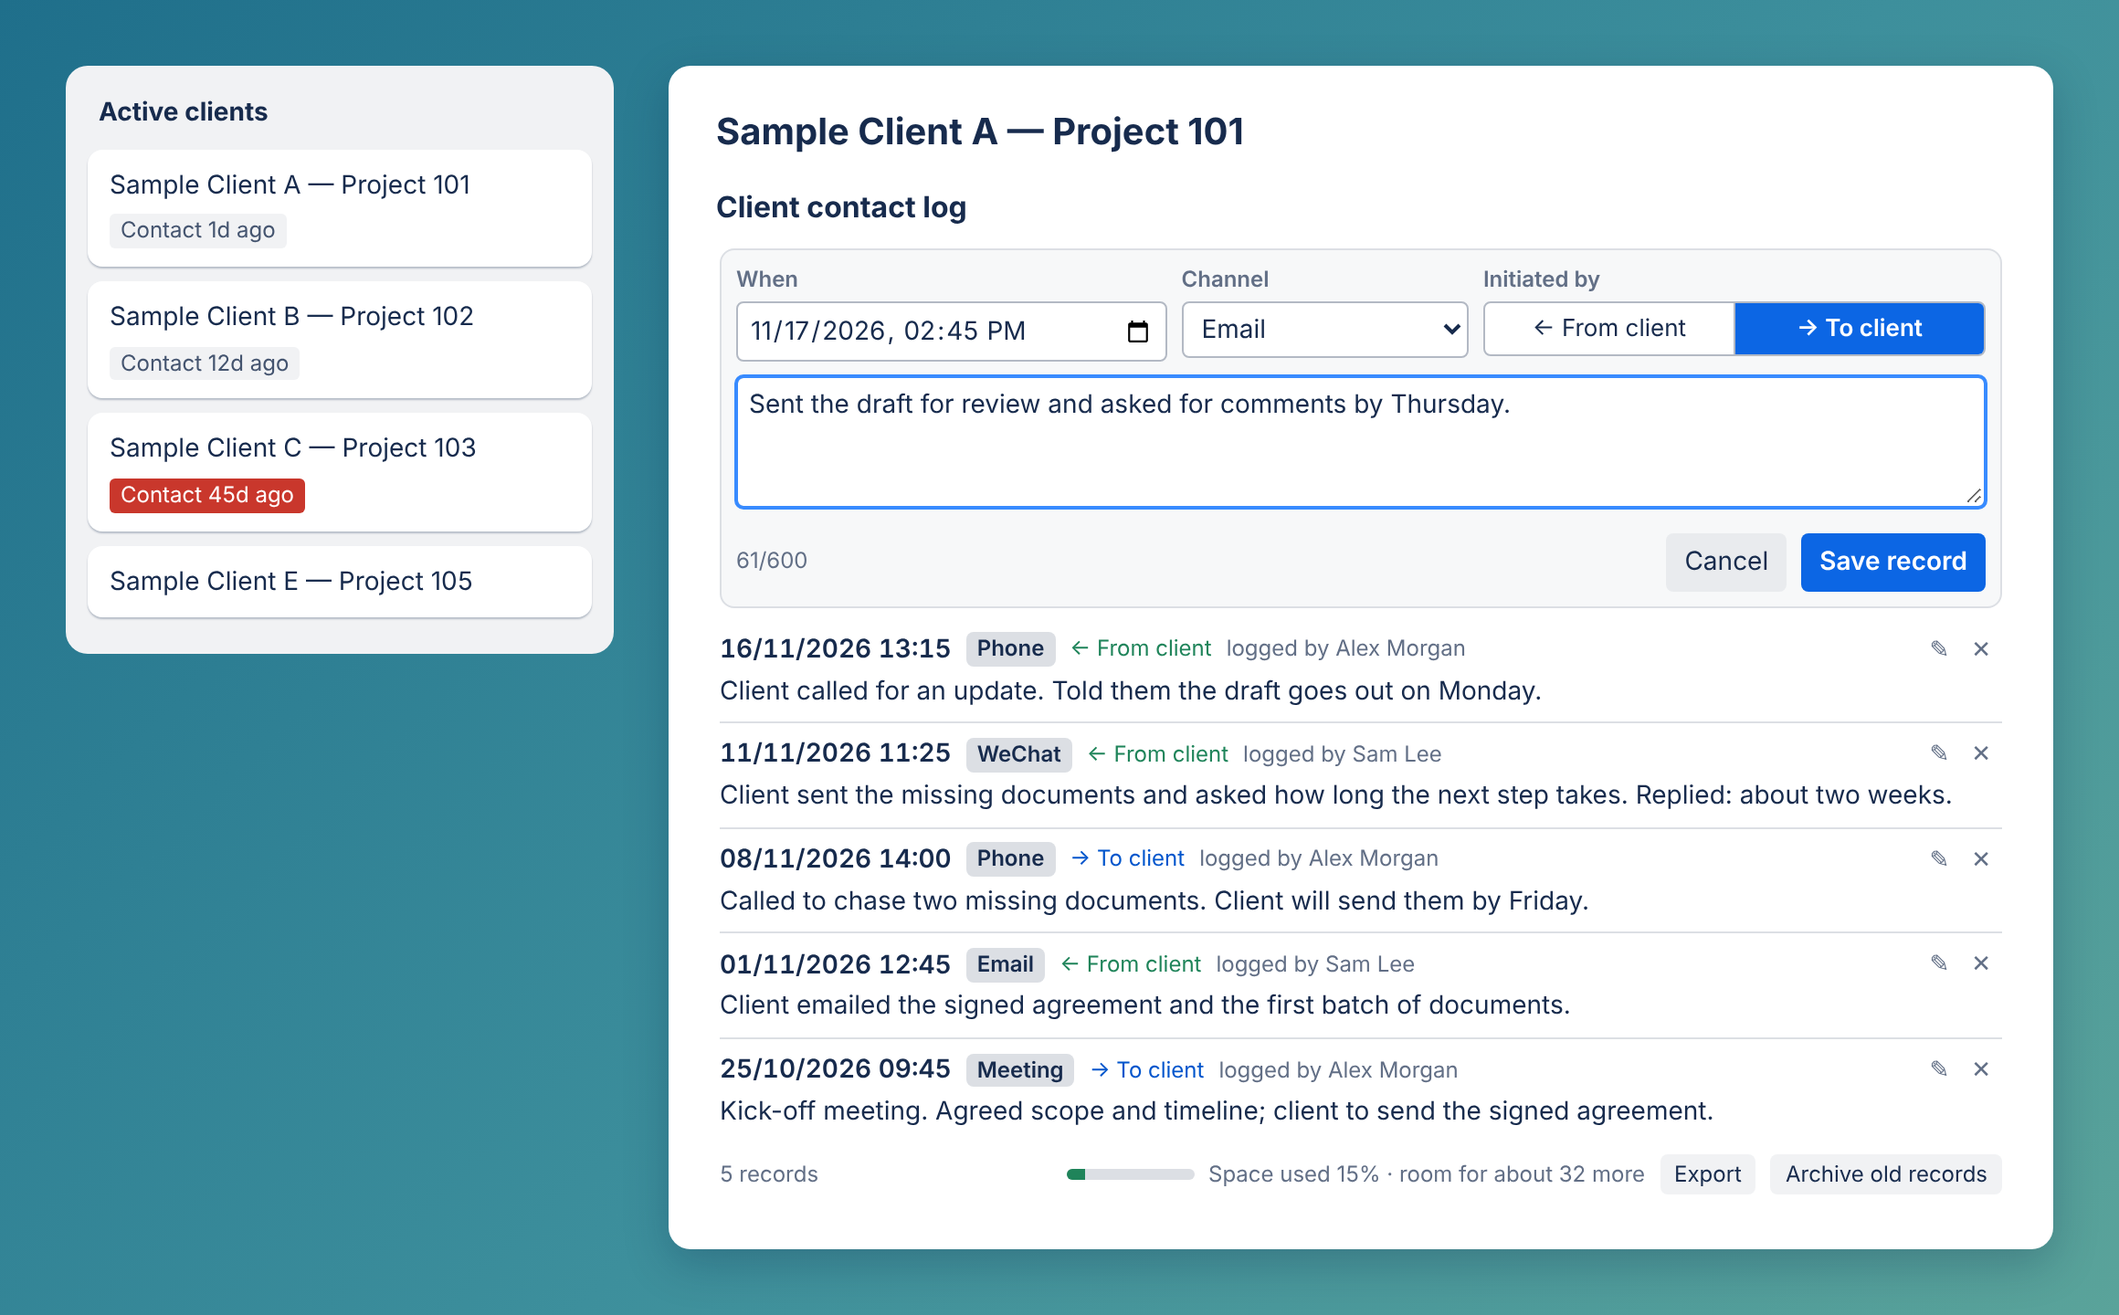
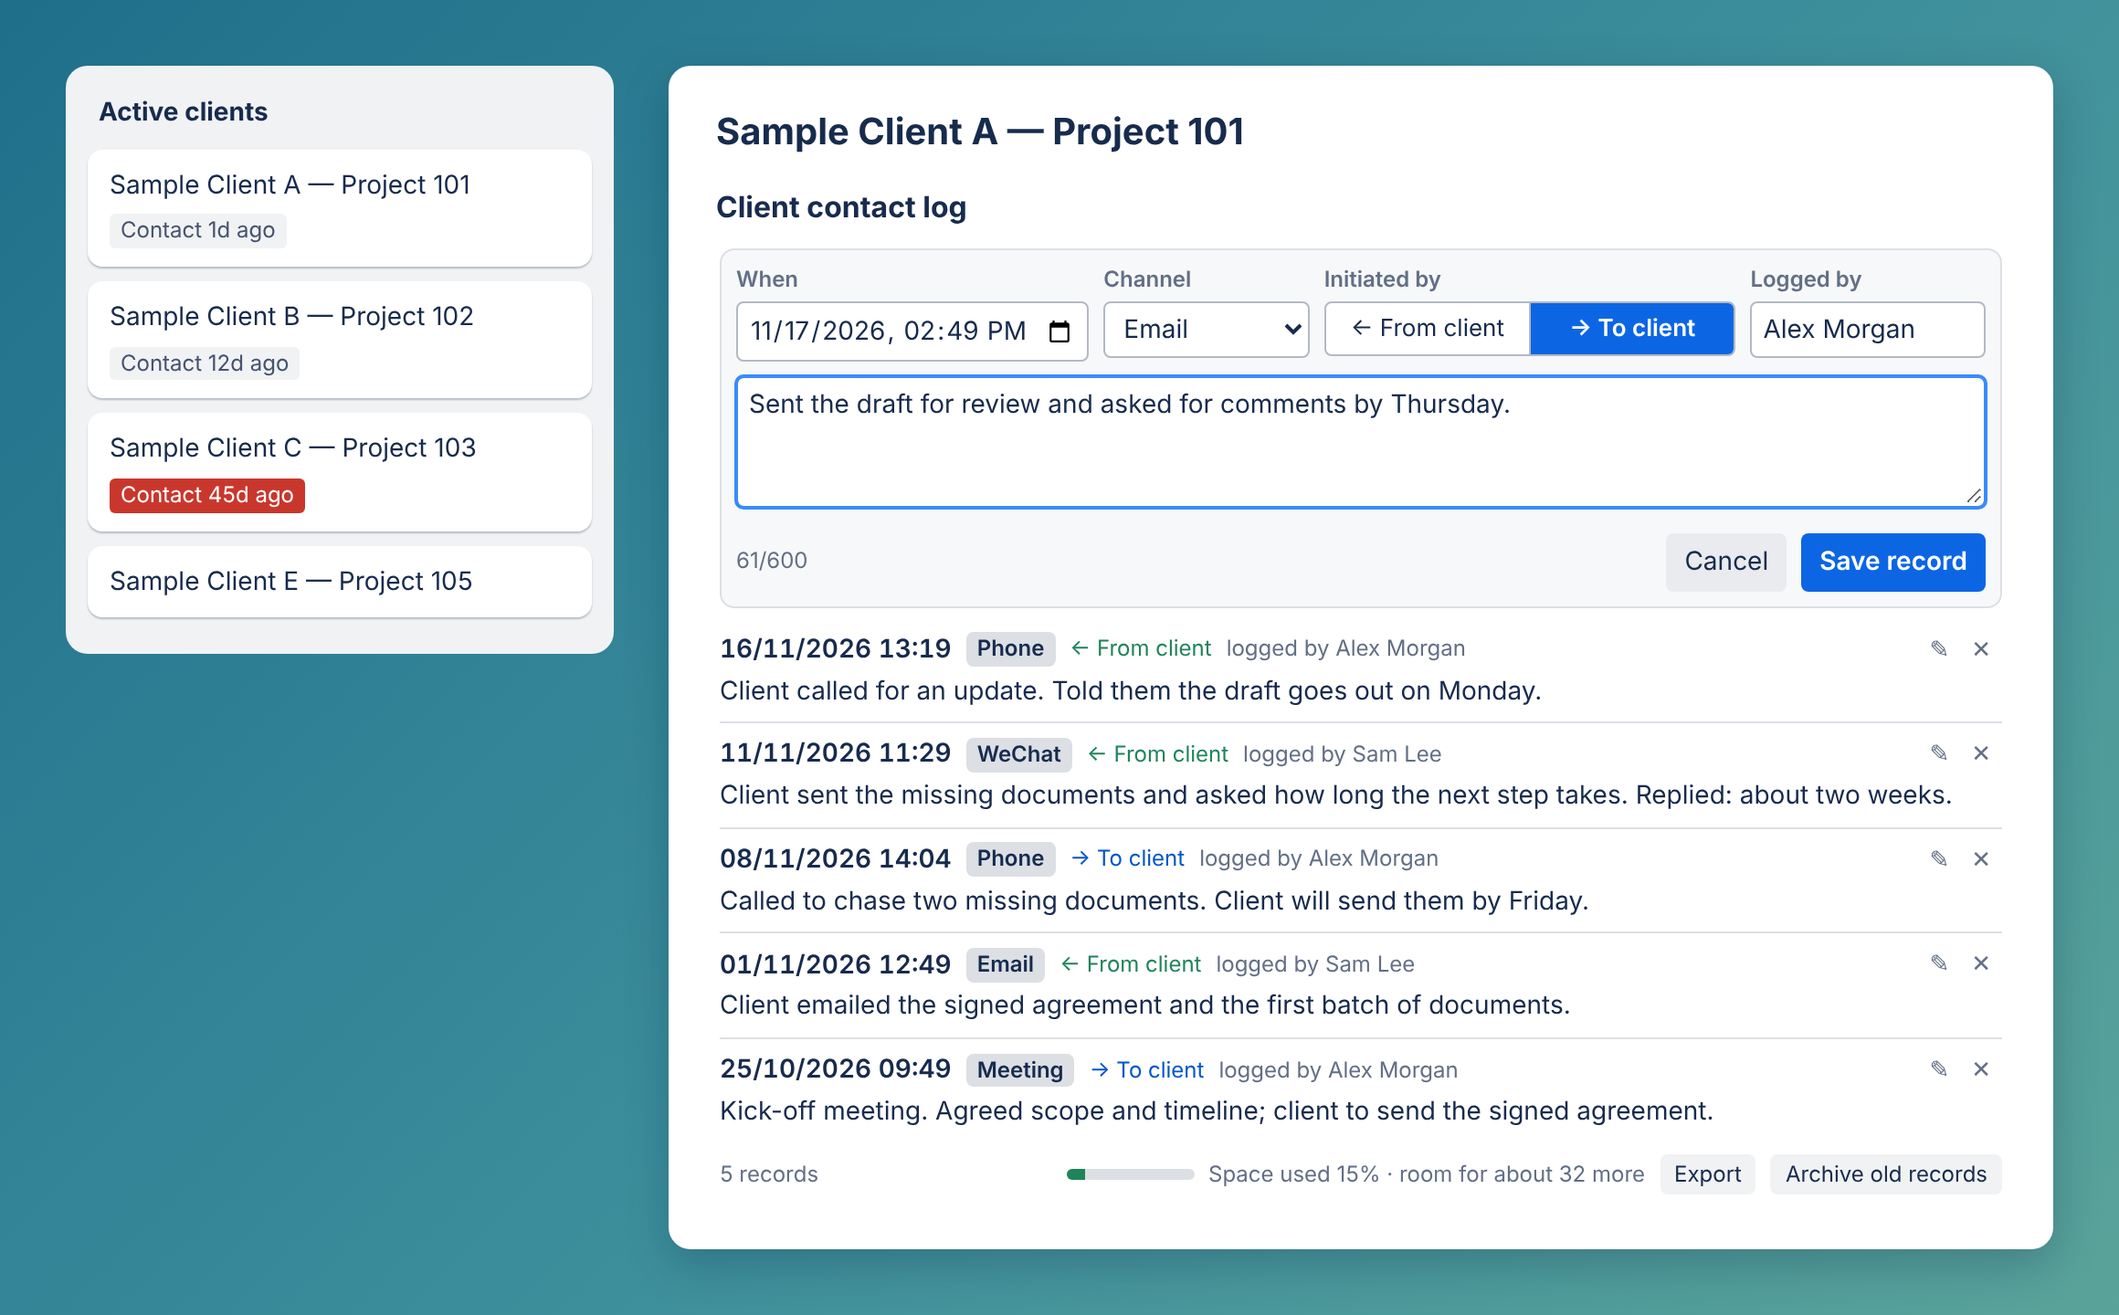
1.1.1: "Logged by" is a label the user types; no Trello profile data is read or stored
Claude-Session: https://claude.ai/code/session_01BTZZjSSWxGuS4JcxxxmPtX

Changed region(s): [[0.6207, 0.1875, 0.9621, 0.2812], [0.4966, 0.1875, 0.5897, 0.2812], [0.6207, 0.1875, 0.6828, 0.2188]]

diff --git a/section.js b/section.js
@@ -3,6 +3,8 @@
  * and writes it back, so a colleague's record added a moment earlier is not overwritten.
  * Trello reloads this iframe after every t.set on the card (including sets made by other Power-Ups),
  * so a half-typed record is kept in sessionStorage and restored after a reload.
+ * "Logged by" is a label each person types once (kept in their own member/private plugin data). The
+ * Power-Up does not read or store Trello profile data such as names, usernames or avatars.
  */
 (function () {
   'use strict';
@@ -12,7 +14,7 @@
     var log = CCL.normalize(null), cfg = CCL.cfg(null);
     var me = '', cardId = '', cardName = '';
     var canWrite = true, saving = false, err = '', info = '';
-    var form = null;                // {id, t, c, d, x} while the form is open
+    var form = null;                // {id, t, c, d, x, w} while the form is open
     var showAll = false, panel = null, armedDelete = null;
     var archN = 0, archOk = false, copied = false;
 
@@ -40,7 +42,8 @@
         var d = JSON.parse(raw);
         if (!d || typeof d.x !== 'string' || !isFinite(+d.t)) return;
         if (d.id && !log.e.some(function (en) { return en.i === d.id; })) { clearDraft(); return; }
-        form = { id: d.id || null, t: Math.floor(+d.t), c: String(d.c || 'w'), d: d.d ? 1 : 0, x: d.x.slice(0, CCL.TEXT_MAX) };
+        form = { id: d.id || null, t: Math.floor(+d.t), c: String(d.c || 'w'), d: d.d ? 1 : 0, x: d.x.slice(0, CCL.TEXT_MAX),
+          w: typeof d.w === 'string' ? d.w.slice(0, CCL.WHO_MAX) : me };
         info = tr('draft_restored');
       } catch (e) { /* ignore a damaged draft */ }
     }
@@ -50,14 +53,14 @@
       return Promise.all([
         t.get('card', 'shared', CCL.KEY),
         t.get('board', 'shared', CCL.CFG_KEY),
-        soft(t.member('id', 'fullName')),
+        soft(t.get('member', 'private', CCL.WHO_KEY)),
         soft(t.card('id', 'name'))
       ]).then(function (r) {
         cfg = CCL.cfg(r[1]);
         if (!CCL.canSee(t)) { CCL.fill(root, [h('div', { class: 'note info', text: tr('no_access') })]); resize(); return; }
         if (saving) return;
         log = CCL.normalize(r[0]);
-        me = r[2] && r[2].fullName ? String(r[2].fullName) : '';
+        me = typeof r[2] === 'string' ? r[2].slice(0, CCL.WHO_MAX) : '';
         if (r[3]) { cardId = r[3].id || cardId; cardName = r[3].name || ''; }
         if (!form && canWrite) restoreDraft();
         draw();
@@ -102,8 +105,8 @@
     function openForm(en) {
       var chans = CCL.channelList(cfg);
       form = en
-        ? { id: en.i, t: en.t, c: en.c, d: en.d, x: en.x }
-        : { id: null, t: CCL.nowMin(), c: chans[0].k, d: 0, x: '' };
+        ? { id: en.i, t: en.t, c: en.c, d: en.d, x: en.x, w: en.w || '' }
+        : { id: null, t: CCL.nowMin(), c: chans[0].k, d: 0, x: '', w: me };
       panel = null; armedDelete = null; err = ''; info = '';
       draw();
       var ta = root.querySelector('textarea.txt');
@@ -117,14 +120,22 @@
       if (!text) { err = tr('err_text'); draw(); return; }
       if (form.t === null || !isFinite(form.t)) { err = tr('err_when'); draw(); return; }
       if (form.t > CCL.nowMin() + 5) { err = tr('err_future'); draw(); return; }
-      var f = { id: form.id, t: form.t, c: form.c, d: form.d, x: text.slice(0, CCL.TEXT_MAX), w: me };
-      // Trello may reload this iframe the moment the save lands, before the code below runs, so the
-      // draft is dropped first and put back only if the save fails.
-      clearDraft();
-      commit(function (cur) {
-        if (f.id) return CCL.updateEntry(cur, f.id, f) ? null : tr('err_gone');
-        CCL.addEntry(cur, f);
-        return null;
+      var f = { id: form.id, t: form.t, c: form.c, d: form.d, x: text.slice(0, CCL.TEXT_MAX), w: String(form.w || '').trim().slice(0, CCL.WHO_MAX) };
+      // Remember the label for this person's next record (new records only; a failure here is harmless).
+      var remember = Promise.resolve();
+      if (!f.id && f.w !== me) {
+        remember = Promise.resolve(f.w ? t.set('member', 'private', CCL.WHO_KEY, f.w) : t.remove('member', 'private', CCL.WHO_KEY))
+          .then(function () { me = f.w; }, function () { /* the record is still saved */ });
+      }
+      remember.then(function () {
+        // Trello may reload this iframe the moment the save lands, before the code below runs, so the
+        // draft is dropped first and put back only if the save fails.
+        clearDraft();
+        return commit(function (cur) {
+          if (f.id) return CCL.updateEntry(cur, f.id, f) ? null : tr('err_gone');
+          CCL.addEntry(cur, f);
+          return null;
+        });
       }).then(function (ok) {
         if (!ok) { saveDraft(); return; }
         form = null; draw();
@@ -154,6 +165,8 @@
           Array.prototype.forEach.call(seg.children, function (b, i) { b.className = i === d ? 'on' : ''; });
         } });
       }));
+      var who = h('input', { type: 'text', class: 'who', maxlength: String(CCL.WHO_MAX), placeholder: tr('ph_who'), value: form.w || '',
+        oninput: function () { form.w = who.value; saveDraft(); } });
       var counter = h('span', { class: 'muted small', text: tr('chars', form.x.length, CCL.TEXT_MAX) });
       var ta = h('textarea', { class: 'txt', maxlength: String(CCL.TEXT_MAX), placeholder: tr('ph_text'),
         oninput: function () { form.x = ta.value; counter.textContent = tr('chars', form.x.length, CCL.TEXT_MAX); saveDraft(); clearErr(); },
@@ -165,7 +178,8 @@
         h('div', { class: 'frow' }, [
           h('label', {}, [h('span', { text: tr('f_when') }), when]),
           h('label', {}, [h('span', { text: tr('f_ch') }), ch]),
-          h('label', {}, [h('span', { text: tr('f_dir') }), seg])
+          h('label', {}, [h('span', { text: tr('f_dir') }), seg]),
+          h('label', {}, [h('span', { text: tr('f_who') }), who])
         ]),
         ta,
         h('div', { class: 'foot' }, [

diff --git a/shared.js b/shared.js
@@ -2,6 +2,8 @@
  * Where data lives (nothing is sent anywhere else):
  *   card   t.set('card',  'shared', 'log', {...})   the contact records of each card
  *   board  t.set('board', 'shared', 'cfg', {...})   language, stale-contact days, channels, muted lists
+ *   member t.set('member', 'private', 'who', '…')   the "logged by" label this person typed, for their next record
+ * No Trello profile data (name, username, avatar, email) is read or stored.
  * Trello limit: 4096 characters of serialized data per card (scope/visibility pair), so each card
  * holds a few dozen records. Old records are exported and removed with "Archive old records".
  */
@@ -9,10 +11,10 @@
   'use strict';
 
   var CCL = {
-    VERSION: '1.1.0', KEY: 'log', CFG_KEY: 'cfg',
+    VERSION: '1.1.1', KEY: 'log', CFG_KEY: 'cfg',
     HARD_LIMIT: 4096,   // Trello's limit for card/shared
     SIZE_LIMIT: 4000,   // what this Power-Up allows itself, leaving a margin
-    WARN_PCT: 85, TEXT_MAX: 600, PREVIEW: 5,
+    WARN_PCT: 85, TEXT_MAX: 600, WHO_MAX: 24, WHO_KEY: 'who', PREVIEW: 5,
     BUILTIN: ['w', 'p', 'e', 'm', 's', 'o']
   };
   var STR = root.CCL_STR || (typeof require === 'function' ? require('./i18n.js') : { en: {}, zh: {} });
@@ -86,7 +88,7 @@
   /* ---------- data shape ----------
    * stored   {v, rv, m:[names], e:[[id, t, ch, dir, who, text], …], a?, at?}
    *   rv   revision counter, bumped on every save
-   *   m    names of the people who logged records; an entry's `who` is an index into it (-1 = unknown)
+   *   m    "logged by" labels as typed by the people who logged records; an entry's `who` is an index into it (-1 = none)
    *   t    minutes since epoch            ch   built-in code (w p e m s o) or a custom channel name
    *   dir  0 client contacted us · 1 we contacted the client
    *   a    number of records archived and removed from the card     at  time of the newest archived record
@@ -159,6 +161,7 @@
     for (var k = 0; k < log.e.length; k++) {
       if (log.e[k].i === id) {
         log.e[k].t = en.t; log.e[k].c = en.c || 'o'; log.e[k].d = en.d ? 1 : 0; log.e[k].x = String(en.x || '').trim();
+        if (typeof en.w === 'string') log.e[k].w = en.w;
         log.e.sort(byTime);
         return true;
       }
@@ -356,6 +359,7 @@
           x4: 'Told the client the application has been lodged.', x5: 'Client asked about progress; replied it is still in the queue.', x6: 'Closing meeting; returned originals.' };
     var store = {
       board: {},
+      who: { member: N.me },
       lists: [{ id: 'l1', name: N.l1 }, { id: 'l2', name: N.l2 }, { id: 'l3', name: N.l3 }],
       cards: [
         { id: 'c1', name: N.c + 'A', idList: 'l1' },
@@ -392,7 +396,7 @@
         }
         if (scope === 'board') store.board[key] = clone(value);
         else { store[key] = store[key] || {}; store[key][cardId(scope)] = clone(value); }
-        fire();
+        if (scope !== 'member') fire();
         return Promise.resolve();
       },
       remove: function (scope, vis, key) {
@@ -405,7 +409,6 @@
       cards: function () { return Promise.resolve(store.cards.slice()); },
       lists: function () { return Promise.resolve(store.lists.slice()); },
       card: function () { return Promise.resolve(clone(store.cards[0])); },
-      member: function () { return Promise.resolve({ id: 'm1', fullName: N.me }); },
       getContext: function () { return { card: 'c1', permissions: { card: 'write', board: 'write' } }; },
       isMemberSignedIn: function () { return true; },
       sizeTo: function () { return Promise.resolve(); },

diff --git a/privacy.html b/privacy.html
@@ -23,10 +23,13 @@
 
   <h2>What the Power-Up stores, and where</h2>
   <p>When you log a contact, the Power-Up saves the following on the Trello card it belongs to: the date and time you
-  entered, the channel (for example phone or email), who initiated the contact, the summary you typed, and the Trello
-  full name of the board member who logged it. When records are archived, the card also keeps a count of archived
+  entered, the channel (for example phone or email), who initiated the contact, the summary you typed, and the
+  optional "Logged by" label you typed (for example your initials). When records are archived, the card also keeps a count of archived
   records and the date of the newest one. Board-level settings (language, the number of days before a card is
-  flagged, channels and lists that are never flagged) are saved on the Trello board.</p>
+  flagged, channels and lists that are never flagged) are saved on the Trello board. The "Logged by" label you last
+  typed is saved in your own private Power-Up data in Trello, so that it is filled in for your next record.</p>
+  <p>The Power-Up does not read or store your Trello profile: not your name, username, email address, avatar, bio or
+  locale.</p>
   <p>This information is held by Trello (Atlassian) as part of your board, under your agreement with Atlassian and the
   <a class="link" href="https://www.atlassian.com/legal/privacy-policy">Atlassian Privacy Policy</a>. It is stored with
   Trello's "shared" visibility, which means anyone who can view the board in Trello can read it, including through

diff --git a/ui.css b/ui.css
@@ -68,14 +68,14 @@ label.check input { width: auto; margin: 0; }
 
 /* add / edit form */
 .form { border: 1px solid var(--line); border-radius: 8px; padding: 8px; background: var(--panel); }
-.frow { display: grid; grid-template-columns: minmax(170px, 1.2fr) minmax(100px, .8fr) minmax(200px, 1.4fr); gap: 8px; margin-bottom: 8px; }
+.frow { display: grid; grid-template-columns: minmax(170px, 1.2fr) minmax(96px, .7fr) minmax(200px, 1.4fr) minmax(110px, .8fr); gap: 8px; margin-bottom: 8px; }
 .frow label { display: block; min-width: 0; }
 .frow label > span { display: block; font-size: 12px; font-weight: 600; color: var(--muted); margin-bottom: 3px; }
 .seg { display: flex; border: 1px solid var(--input-line); border-radius: 4px; overflow: hidden; background: var(--input-bg); }
 .seg button { flex: 1; border-radius: 0; background: transparent; padding: 5px 6px; white-space: nowrap; font-size: 13px; }
 .seg button + button { border-left: 1px solid var(--input-line); }
 .seg button.on { background: var(--primary); color: var(--primary-fg); font-weight: 600; }
-@media (max-width: 560px) { .frow { grid-template-columns: 1fr 1fr; } .frow label:last-child { grid-column: 1 / 3; } }
+@media (max-width: 700px) { .frow { grid-template-columns: minmax(0, 1.3fr) minmax(0, 1fr); } }
 
 /* records */
 .entries { margin-top: 6px; }

diff --git a/support.html b/support.html
@@ -15,7 +15,7 @@
   <ol>
     <li>Open a card and scroll to the <strong>Client contact log</strong> section.</li>
     <li>Click <strong>+ Log a client contact</strong>. Set the time, the channel and who initiated the contact, and
-    write a short summary.</li>
+    write a short summary. "Logged by" is a label you type once, such as your initials; it is filled in for you next time.</li>
     <li>Click <strong>Save record</strong> (or press Ctrl+Enter). The newest record is shown first.</li>
   </ol>
   <p>Use ✎ to change a record and ✕ (click twice) to delete it.</p>

diff --git a/i18n.js b/i18n.js
@@ -39,6 +39,8 @@
   add('f_when', 'When', '时间');
   add('f_ch', 'Channel', '渠道');
   add('f_dir', 'Initiated by', '发起方');
+  add('f_who', 'Logged by', '记录人');
+  add('ph_who', 'Your name or initials', '你的名字或缩写');
   add('ph_text', 'What was said or agreed (Ctrl+Enter to save)', '沟通摘要：说了什么、约定了什么（Ctrl+Enter 保存）');
   add('save', 'Save record', '保存记录');
   add('save_edit', 'Save changes', '保存修改');

diff --git a/LISTING.md b/LISTING.md
@@ -17,7 +17,7 @@ Power-Up ID: `6afbc51a9774e9c6d48078d4`
 | Field | Value |
 |---|---|
 | Privacy policy URL | `https://zhijievisa.github.io/client-contact-log/privacy.html` |
-| Stores personal data outside Trello? | No. All data is stored in Trello Power-Up storage on the user's board. |
+| Does your app store any Trello user personal data? | No. It does not read or store Trello profile data. "Logged by" is a label the user types; all data stays in Trello Power-Up storage. |
 
 ## Listing
 
@@ -51,7 +51,7 @@ On a client card, Comments end up doing two jobs. The team uses them to talk to 
 
 1. Open a card and click "+ Log a client contact" in the Client contact log section.
 2. Pick the channel (phone, email, meeting, WeChat, SMS or your own), who initiated the contact, and write a short summary.
-3. Save. The record is added to the card with the time and your name, newest first.
+3. Save. The record is added to the card with the time and your initials, newest first.
 
 **What you see on the card**
 
@@ -121,7 +121,8 @@ Help and support: https://zhijievisa.github.io/client-contact-log/support.html
 
 > 1. Enable the Power-Up on a board. A short welcome modal opens.
 > 2. Open any card and scroll to "Client contact log". Click "+ Log a client contact", choose a channel and
->    "From client" or "To client", type a summary and click "Save record" (or Ctrl+Enter).
+>    "From client" or "To client", type your initials in "Logged by", type a summary and click "Save record"
+>    (or Ctrl+Enter).
 > 3. The record appears in the section. Close the card: the card front shows the badge "Contact today".
 > 4. Add a second record and set its time to 40 days ago, then delete the first record (✕ twice): the badge
 >    shows "Contact 40d ago" in red.
@@ -134,8 +135,9 @@ Help and support: https://zhijievisa.github.io/client-contact-log/support.html
 **Data and privacy:**
 
 > All data is stored in Trello Power-Up storage (card/shared and board/shared). There is no external server, no
-> third-party account, no analytics and no tracking. No personal data is stored outside Trello. An unsaved draft
-> is kept in the browser's session storage until it is saved or cancelled.
+> third-party account, no analytics and no tracking. No personal data is stored outside Trello. The Power-Up does
+> not read Trello profile data (name, username, email, avatar): "Logged by" is a label the user types. An unsaved
+> draft is kept in the browser's session storage until it is saved or cancelled.
 
 **Why some viewers see less (if asked about the "shared perspective" guideline):**
 

diff --git a/README.md b/README.md
@@ -3,10 +3,10 @@
 A Trello Power-Up that keeps a record of every contact with the client on the card itself, so that
 Comments & activity can stay for the team's internal notes.
 
-Each record has the time, the channel, who initiated the contact, who logged it and a short summary. Card
+Each record has the time, the channel, who initiated the contact, a "logged by" label and a short summary. Card
 badges and a board overview show which clients have gone longest without contact.
 
-Version 1.1.0 · English and 简体中文
+Version 1.1.1 · English and 简体中文
 
 ## Features
 
@@ -21,7 +21,8 @@ Version 1.1.0 · English and 简体中文
 ## Data and privacy
 
 Static front-end files only. There is no server and no database. Records are stored in Trello Power-Up storage
-on the user's own board (`card/shared/log` and `board/shared/cfg`). See `privacy.html`.
+on the user's own board (`card/shared/log`, `board/shared/cfg`, and the user's own `member/private/who`
+label). No Trello profile data (name, username, email, avatar) is read or stored. See `privacy.html`.
 
 Trello allows 4096 characters of Power-Up data per card, and counts one Chinese character as one character
 (checked on a live board). Measured with this code:
